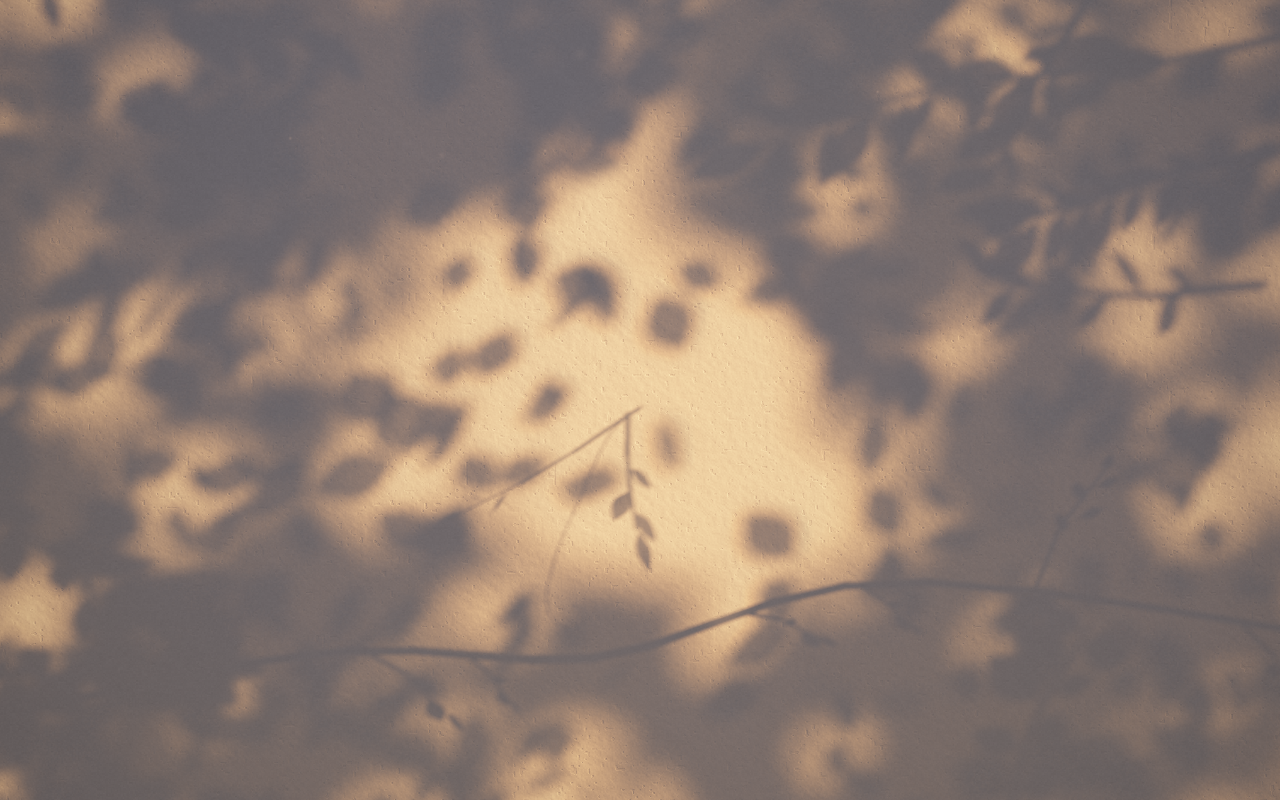
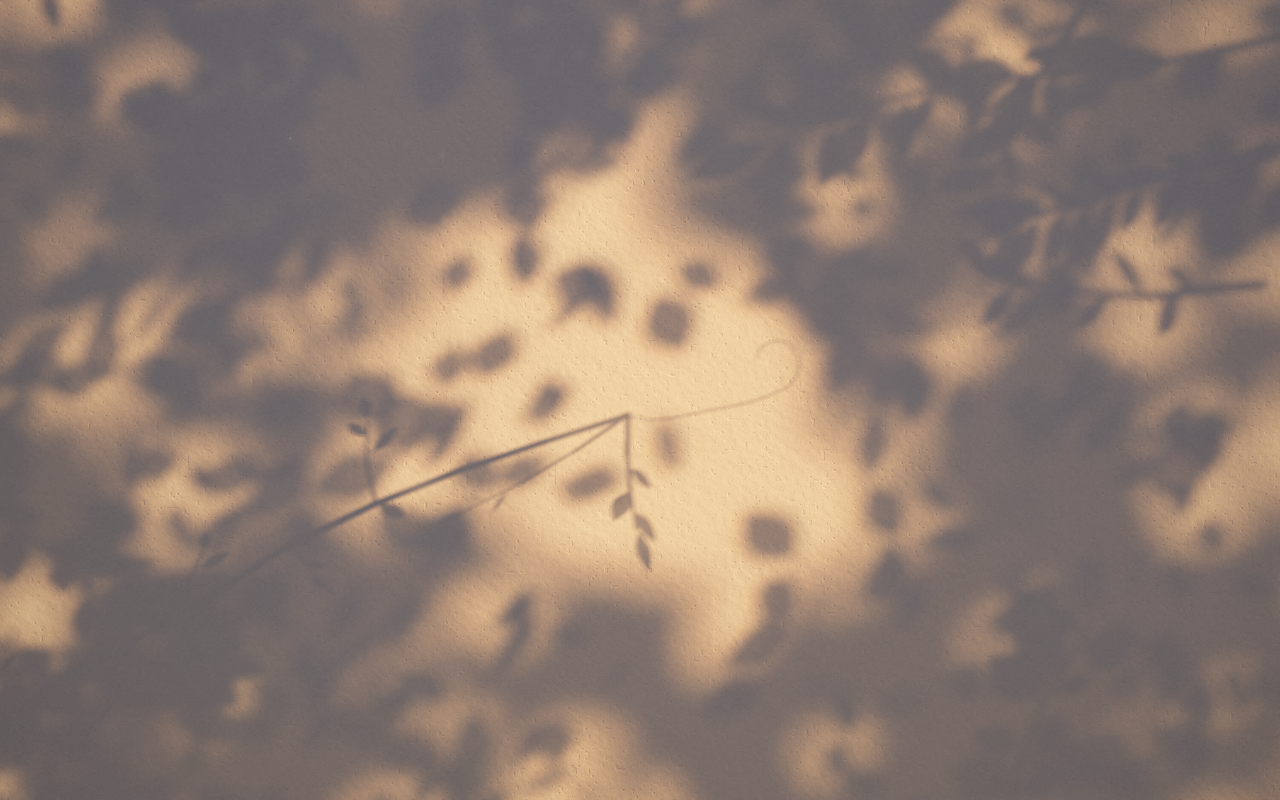
Komorebi Clock: the clock grows at the tip of a thin branch; debug sequence bar
- Replace the vine with a thin, slightly crooked branch reaching in from the
  lower left close to the wall; the hour, minute and seconds shoots sprout
  at its tip. Its side twigs (smaller leaves, leaning back near the tip)
  keep the hands camouflaged. No floating sprig, no wall stem.
- Debug sequence bar (#debug or Shift+D): scrub the day over a strip of the
  day's light, play at x1 to x3600, send the minute's cloud now, back to
  real time. Minute clouds are skipped while scrubbing or above x10.

diff --git a/komorebi/extension/newtab.js b/komorebi/extension/newtab.js
@@ -7,13 +7,17 @@ const canvas = document.getElementById('c');
 const rootStyle = document.documentElement.style;
 
 /* ------------------------------------------------------------------ */
-/*  Time source (with #t=HH:MM debug hook)                            */
+/*  Time source (with #t=HH:MM and #debug hooks)                      */
 /* ------------------------------------------------------------------ */
 
+/* dbg.minutes, when set by the debug sequence bar, replaces the clock: minutes since midnight, fractional */
+const dbg = { on: false, minutes: null, playing: false, speed: 60 };
 let debugMin = null;
 function readHash() {
-  const m = /^#t=(\d{1,2}):(\d{2})$/.exec(location.hash || '');
+  const h = location.hash || '';
+  const m = /t=(\d{1,2}):(\d{2})/.exec(h);
   debugMin = m ? (clampI(+m[1], 0, 23) * 60 + clampI(+m[2], 0, 59)) : null;
+  if (/debug/.test(h)) dbg.on = true;
 }
 function clampI(v, a, b) { return Math.min(b, Math.max(a, v | 0)); }
 readHash();
@@ -24,7 +28,10 @@ const DAYS = ['SUN', 'MON', 'TUE', 'WED', 'THU', 'FRI', 'SAT'];
 function nowInfo() {
   const d = new Date();
   let hh, mm, hour;
-  if (debugMin !== null) {
+  if (dbg.minutes !== null) {
+    const M = ((dbg.minutes % 1440) + 1440) % 1440;
+    hh = Math.floor(M / 60); mm = Math.floor(M % 60); hour = M / 60;
+  } else if (debugMin !== null) {
     hh = Math.floor(debugMin / 60); mm = debugMin % 60; hour = hh + mm / 60;
   } else {
     hh = d.getHours(); mm = d.getMinutes(); hour = hh + mm / 60 + d.getSeconds() / 3600;
@@ -550,7 +557,7 @@ function resize() {
 
   makeLightTarget();
   layoutBranches();
-  buildVine();
+  buildBearer();
   buildMoreBranches();
   buildCanopy();
 
@@ -984,69 +991,63 @@ function emitLeaf3D(base, ang, tz, ll, wf, twist, opacity, shape) {
   emitLeaf(base, Ld.map(x => x * ll * 1.1), Wd.map(x => x * hw), opacity, shape);
 }
 
-/* A vine climbs across the wall a few centimetres out from it. The clock's
-   sprig grows from one of its nodes; its other side twigs look much the same,
-   so the time hides among them.                                              */
-function catmull(P, u) {
-  const n = P.length - 1, f = Math.min(n - 1e-6, Math.max(0, u) * n), i = Math.floor(f), t = f - i;
-  const p0 = P[Math.max(0, i - 1)], p1 = P[i], p2 = P[i + 1], p3 = P[Math.min(n, i + 2)];
-  const t2 = t * t, t3 = t2 * t;
-  return [0, 1].map(j => 0.5 * (2 * p1[j] + (-p0[j] + p2[j]) * t + (2 * p0[j] - 5 * p1[j] + 4 * p2[j] - p3[j]) * t2 + (-p0[j] + 3 * p1[j] - 3 * p2[j] + p3[j]) * t3));
-}
-let VINE = null;
-function buildVine() {
+/* The clock grows at the tip of a thin branch that reaches in from the lower
+   left, close to the wall. The branch's side twigs look much like the hands,
+   so the time hides among them; only the three shoots at the tip keep time. */
+let BEARER = null;
+function buildBearer() {
   const r = mulberry(909);
-  /* the vine passes well below the clock, beyond the reach of the hour hand */
-  const pts = [[-halfW - 0.08, -0.40], [-halfW * 0.5, -0.31], [PIVOT.x - 0.04, PIVOT.y - 0.30], [halfW * 0.42, -0.21], [halfW + 0.08, -0.29]];
-  let uk = 0.5, best = 1e9;
-  for (let i = 0; i <= 400; i++) {
-    const q = catmull(pts, i / 400), d = Math.hypot(q[0] - PIVOT.x + 0.02, q[1] - PIVOT.y);
-    if (d < best) { best = d; uk = i / 400; }
-  }
-  const twigs = [0.07, 0.17, 0.29, 0.38, 0.64, 0.73, 0.83, 0.93].map(u => ({
-    u, ang: (r() < 0.5 ? -1 : 1) * (0.5 + 1.1 * r()), len: 0.07 + 0.12 * r(), nl: 3 + Math.floor(r() * 3),
-    side: r() < 0.5 ? -1 : 1, ph: r() * 50, big: r() < 0.35 }));
-  /* side twigs close to the clock stay small and plain, so the hands can be traced back to their knot */
   const Rh = Math.min(0.31, halfW * 0.78) * 0.7;
-  for (const tw of twigs) {
-    const b = catmull(pts, tw.u), d = Math.hypot(b[0] - PIVOT.x, b[1] - PIVOT.y);
-    if (d < Rh * 1.9) { tw.len *= 0.6; tw.nl = Math.min(tw.nl, 3); tw.big = false; }
-    if (d < Rh * 2.4) tw.ang = Math.sign(tw.ang || 1) * Math.min(Math.abs(tw.ang), 0.55);   /* lie along the vine: never hang like a hand */
+  const S = [-halfW - 0.06, -0.46], K = [PIVOT.x, PIVOT.y];
+  const C = [S[0] * 0.45 + K[0] * 0.55 - 0.02, S[1] * 0.3 + K[1] * 0.7 + 0.03];      /* a gentle arch */
+  const N = 8, nodes = [];
+  for (let i = 0; i <= N; i++) {
+    const u = i / N, v = 1 - u;
+    let x = v * v * S[0] + 2 * v * u * C[0] + u * u * K[0];
+    let y = v * v * S[1] + 2 * v * u * C[1] + u * u * K[1];
+    if (i > 0 && i < N) { const j = (r() - 0.5) * 0.018; x += j * 0.6; y += j; }  /* a little crooked at each node */
+    nodes.push([x, y, Z0 + 0.05 * (1 - u) * (1 - u)]);   /* near the wall at the tip, a little farther out at the edge */
   }
-  /* twigs near the clock grow to the side away from it */
-  for (const tw of twigs) {
-    const b = catmull(pts, tw.u), b2 = catmull(pts, Math.min(1, tw.u + 0.01));
-    if (Math.hypot(b[0] - PIVOT.x, b[1] - PIVOT.y) > 0.42) continue;
-    const va = Math.atan2(b2[1] - b[1], b2[0] - b[0]);
-    const end = a => Math.hypot(b[0] + Math.cos(a) * tw.len - PIVOT.x, b[1] + Math.sin(a) * tw.len - PIVOT.y);
-    if (end(va - tw.ang) > end(va + tw.ang)) tw.ang = -tw.ang;
+  const twigs = [];
+  for (let i = 1; i < N - 1; i++) {
+    const b = nodes[i], d = Math.hypot(b[0] - K[0], b[1] - K[1]);
+    if (d < Rh * 1.35) continue;                        /* the tip belongs to the hands */
+    const dir = Math.atan2(nodes[i + 1][1] - b[1], nodes[i + 1][0] - b[0]);
+    const side = i % 2 ? 1 : -1;
+    const off = d < Rh * 2.4 ? 0.95 + 0.5 * r() : 0.5 + 0.6 * r();   /* near the tip they lean back, away from the clock */
+    twigs.push({ i, ang: dir + side * off, len: (0.05 + 0.07 * r()) * (Rh / 0.217), nl: 2 + Math.floor(r() * 3), side, ph: r() * 50 });
   }
-  VINE = { pts, twigs, uk };
+  BEARER = { nodes, twigs, Rh };
 }
-function emitVine(t) {
-  const V = VINE, N = 18;
-  const zAt = u => Z0 + 0.006 + 0.010 * Math.sin((u - 0.5) * 9);
-  const pt = u => { const q = catmull(V.pts, u); return [q[0], q[1], zAt(u)]; };
-  /* the vine: a mature stem, thicker than any of the clock's twigs */
-  let prev = pt(0);
-  for (let i = 1; i <= N; i++) { const p = pt(i / N); emitSeg(prev, p, 0.0060 - 0.0018 * Math.abs(i / N - 0.5) * 2, 1); prev = p; }
-  const fl = flutterAt(0);
-  for (const tw of V.twigs) {
-    const b = pt(tw.u), b2 = pt(Math.min(1, tw.u + 0.01));
-    const a = Math.atan2(b2[1] - b[1], b2[0] - b[0]) + tw.ang + fl * 0.04 * sn1(t * 0.5 + tw.ph);
-    const e = [b[0] + Math.cos(a) * tw.len, b[1] + Math.sin(a) * tw.len, b[2] + 0.012];
-    const m = [(b[0] + e[0]) / 2 - Math.sin(a) * tw.len * 0.07, (b[1] + e[1]) / 2 + Math.cos(a) * tw.len * 0.07, b[2] + 0.006];
+function emitBearer(t) {
+  const B = BEARER, n = B.nodes.length - 1;
+  /* the branch: thicker than any of the clock's shoots, thinning toward the tip */
+  for (let i = 0; i < n; i++) emitSeg(B.nodes[i], B.nodes[i + 1], 0.0060 - 0.0020 * i / (n - 1), 1);
+  const fl = flutterAt(-0.3);
+  for (const tw of B.twigs) {
+    const b = B.nodes[tw.i];
+    const a = tw.ang + fl * 0.04 * sn1(t * 0.5 + tw.ph);
+    const e = [b[0] + Math.cos(a) * tw.len, b[1] + Math.sin(a) * tw.len, b[2] + 0.01];
+    const m = [(b[0] + e[0]) / 2 - Math.sin(a) * tw.len * 0.06, (b[1] + e[1]) / 2 + Math.cos(a) * tw.len * 0.06, b[2] + 0.005];
     emitSeg(b, m, 0.0028, 1); emitSeg(m, e, 0.0020, 1);
     for (let k = 0; k < tw.nl; k++) {
-      const s = 0.35 + 0.65 * (k + 1) / tw.nl;
-      const p = [b[0] + (e[0] - b[0]) * s, b[1] + (e[1] - b[1]) * s, b[2] + 0.012 * s];
+      const s = 0.4 + 0.6 * (k + 1) / tw.nl;
+      const p = [b[0] + (e[0] - b[0]) * s, b[1] + (e[1] - b[1]) * s, b[2] + 0.01 * s];
       const side = k === tw.nl - 1 ? 0 : (k % 2 ? 1 : -1) * tw.side;
-      const ll = (tw.big ? 0.036 : 0.028) * (0.85 + 0.3 * ((k * 0.37 + tw.ph) % 1));   /* smaller than the hour hand's leaves */
-      emitLeaf3D(p, a + side * 0.72 + fl * 0.12 * sn1(t * 1.25 + tw.ph + k), 0.25 * (side || 0.6), ll, tw.big ? 1.1 : 0.85,
-                 0.3 * (side || 1) + fl * 0.55 * sn1(t * (0.55 + 0.08 * k) + tw.ph * 1.7), 0.96, tw.ph * 0.173 + k * 0.29);
+      const ll = 0.032 * (0.85 + 0.3 * ((k * 0.37 + tw.ph) % 1));     /* smaller than the hour hand's leaves */
+      emitLeaf3D(p, a + side * 0.72 + fl * 0.12 * sn1(t * 1.25 + tw.ph + k), 0.22 * (side || 0.6), ll, 0.8,
+                 0.25 * (side || 1) + fl * 0.5 * sn1(t * (0.55 + 0.08 * k) + tw.ph * 1.7), 0.96, tw.ph * 0.173 + k * 0.29);
     }
   }
+  /* a few leaves straight off the branch */
+  for (let i = 1; i < n - 1; i += 2) {
+    const b = B.nodes[i];
+    if (Math.hypot(b[0] - PIVOT.x, b[1] - PIVOT.y) < B.Rh * 1.3) continue;
+    const dir = Math.atan2(B.nodes[i + 1][1] - b[1], B.nodes[i + 1][0] - b[0]), side = i % 4 === 1 ? -1 : 1;
+    emitLeaf3D(b, dir + side * 1.0, 0.2 * side, 0.034, 0.85, 0.3 * side + fl * 0.5 * sn1(t * 0.7 + i), 0.95, 0.4 + i * 0.13);
+  }
 }
+
 /* the second hand: a tendril, the thinnest thing on the wall, curling at its tip */
 function emitTendril(frac, len, t, px) {
   const th = frac * Math.PI * 2 + 0.01 * sn1(t * 0.6 + 4.2);
@@ -1159,12 +1160,17 @@ function emitBranch(B, leafArr, wArr, jArr, zBase, zTip, aK, th0, th1) {
    from its knot a short twig with broad leaves points at the hour and a long
    slender one at the minute. No numerals, no dial.                           */
 const PIVOT = { x: 0, y: -0.01 };
-const Z0 = 0.014;                            /* the knot, about 2 cm out from the wall on a short stem */
+const Z0 = 0.014;                            /* the knot at the branch tip, about 2 cm out from the wall */
 /* leaves along a twig: s along the stem (0..1), side, angle off the stem, length, width */
 const HOUR_LEAVES = [[0.45, 1, 0.85, 0.060, 0.90], [0.65, -1, 0.75, 0.068, 0.95], [0.84, 1, 0.60, 0.072, 0.92], [1.0, 0, 0.0, 0.080, 0.95]];
 const MIN_LEAVES = [[0.58, -1, 0.65, 0.036, 0.50], [0.74, 1, 0.58, 0.040, 0.55], [0.88, -1, 0.50, 0.042, 0.55], [1.0, 0, 0.0, 0.048, 0.60]];
 function handFracs() {
   const d = new Date();
+  if (dbg.minutes !== null) {
+    const M = ((dbg.minutes % 1440) + 1440) % 1440;
+    const sec = dbg.playing ? (M * 60) % 60 : d.getSeconds() + d.getMilliseconds() / 1000;
+    return { h: ((M / 60) % 12) / 12, m: (M % 60) / 60, s: sec / 60 };
+  }
   let hh, mm, ss;
   if (debugMin !== null) { hh = Math.floor(debugMin / 60); mm = debugMin % 60; ss = 0; }
   else { hh = d.getHours(); mm = d.getMinutes(); ss = d.getSeconds() + d.getMilliseconds() / 1000; }
@@ -1267,7 +1273,7 @@ function frame(now) {
   requestAnimationFrame(frame);
   if (lost) return;
   /* ~30 fps when nothing is happening; full rate while arriving, changing or being touched */
-  const idle = clock > 2.5 && !trans.active && (clock - pointer.last) > 2.5;
+  const idle = clock > 2.5 && !trans.active && (clock - pointer.last) > 2.5 && !dbg.playing;
   const since = now - lastDraw;
   if (idle && since < 1000 / 30 - 4) return;
   const raw = since / 1000;
@@ -1276,8 +1282,14 @@ function frame(now) {
   clock += dt;
   const t = clock;
 
-  if (now - lastInfoAt > 250) { lastInfoAt = now; refreshInfo(); }
-  if (!trans.active && info.key !== shownKey && !needsResize) startTransition(info.key);
+  if (dbg.playing && dbg.minutes !== null) dbg.minutes = (dbg.minutes + dt * dbg.speed / 60) % 1440;
+  if (now - lastInfoAt > 250 || dbg.minutes !== null) { lastInfoAt = now; refreshInfo(); }
+  if (!trans.active && info.key !== shownKey && !needsResize) {
+    /* scrubbing or fast playback crosses minutes too quickly for a cloud each time */
+    if (dbg.minutes !== null && (!dbg.playing || dbg.speed > 10)) shownKey = info.key;
+    else startTransition(info.key);
+  }
+  if (dbgBar && dbg.on) updateDebugBar();
 
   let perturbed = false;
   if (needsResize) { resize(); perturbed = true; }
@@ -1321,9 +1333,8 @@ function frame(now) {
   const sw = wind.mid.x * 1.1 + 0.6 * wind.far.x;
   emitHand(fr.h, Rh * 0.62, 0.05, 0.010, 0.0040, 0.0026, HOUR_LEAVES, wt, sw * 0.8, 3.1, Rh / 0.31, true);
   emitHand(fr.m, Rh, -0.035, 0.016, 0.0026, 0.0012, MIN_LEAVES, wt, sw, 11.7, Rh / 0.31);
-  emitSeg([PIVOT.x, PIVOT.y, 0], [PIVOT.x, PIVOT.y, Z0], 0.0025, 1);    /* the short stem: its shadow is only a small knot */
   emitTendril(fr.s, Rh * 1.12, wt, (0.5 - yBot) / H);
-  emitVine(wt);
+  emitBearer(wt);
   const handQ = nearQ;
   poseBranch(branchA, wt, 0, 0, leafA, leafWA, jointA);
   poseBranch(branchB, wt, 0, 0, leafB, leafWB, jointB);
@@ -1458,6 +1469,82 @@ function frame(now) {
   gl.drawArrays(gl.POINTS, 0, MOTES);
   gl.disable(gl.BLEND);
 }
+
+/* ------------------------------------------------------------------ */
+/*  Debug: a sequence bar to scrub through the day and watch the clouds  */
+/* ------------------------------------------------------------------ */
+/* Shown with #debug in the URL or Shift+D. Not part of the normal page.  */
+let dbgBar = null, dbgEls = null, dbgDrag = false, dbgLastUi = 0;
+function litColor(L) {
+  return ALB.map((a, j) => Math.pow(1 - Math.exp(-a * (L.amb[j] + L.sun[j] * L.si * 1.8 * 0.6) * 1.12), 1 / 2.2));
+}
+function setupDebugBar() {
+  if (dbgBar) { dbgBar.style.display = dbg.on ? 'flex' : 'none'; return; }
+  if (!dbg.on) return;
+  const st = document.createElement('style');
+  st.textContent = `
+#kc-dbg{position:fixed;left:16px;right:16px;bottom:16px;display:flex;align-items:center;gap:10px;padding:10px 12px;
+  background:rgba(20,22,26,.72);color:#eee;font:12px/1 -apple-system,BlinkMacSystemFont,"Helvetica Neue",sans-serif;
+  border-radius:10px;backdrop-filter:blur(6px);-webkit-backdrop-filter:blur(6px);z-index:10;user-select:none}
+#kc-dbg button,#kc-dbg select{background:rgba(255,255,255,.12);color:#eee;border:1px solid rgba(255,255,255,.2);border-radius:6px;
+  font:inherit;padding:5px 9px;cursor:pointer}
+#kc-dbg button:hover,#kc-dbg select:hover{background:rgba(255,255,255,.22)}
+#kc-dbg button:focus-visible,#kc-dbg select:focus-visible,#kc-dbg input:focus-visible{outline:2px solid #fff;outline-offset:1px}
+#kc-dbg .lbl{font-variant-numeric:tabular-nums;min-width:40px;text-align:right;font-size:13px}
+#kc-dbg .trk{position:relative;flex:1;height:26px;min-width:120px}
+#kc-dbg .trk canvas{position:absolute;left:0;right:0;top:12px;width:100%;height:10px;border-radius:5px}
+#kc-dbg .ticks{position:absolute;left:0;right:0;top:0;display:flex;justify-content:space-between;font-size:9px;opacity:.65;pointer-events:none}
+#kc-dbg input[type=range]{position:absolute;left:0;right:0;top:8px;width:100%;height:18px;margin:0;background:transparent;-webkit-appearance:none;appearance:none}
+#kc-dbg input[type=range]::-webkit-slider-runnable-track{height:18px;background:transparent}
+#kc-dbg input[type=range]::-webkit-slider-thumb{-webkit-appearance:none;width:4px;height:18px;background:#fff;border-radius:2px;box-shadow:0 0 0 1px rgba(0,0,0,.45)}`;
+  document.head.appendChild(st);
+  const bar = document.createElement('div');
+  bar.id = 'kc-dbg';
+  bar.innerHTML = '<button data-k="play" title="play / pause">▶</button>' +
+    '<select data-k="speed" title="speed"><option value="1">×1</option><option value="10">×10</option><option value="60" selected>×60</option><option value="600">×600</option><option value="3600">×3600</option></select>' +
+    '<div class="trk"><div class="ticks"><span>0</span><span>3</span><span>6</span><span>9</span><span>12</span><span>15</span><span>18</span><span>21</span><span>24</span></div>' +
+    '<canvas width="576" height="10"></canvas><input data-k="time" type="range" min="0" max="1439" step="1" aria-label="time of day"></div>' +
+    '<span class="lbl" data-k="label">--:--</span>' +
+    '<button data-k="cloud" title="send a cloud across now">cloud</button>' +
+    '<button data-k="now" title="back to the real time">now</button>';
+  document.body.appendChild(bar);
+  const q = k => bar.querySelector(`[data-k="${k}"]`);
+  dbgEls = { play: q('play'), speed: q('speed'), time: q('time'), label: q('label') };
+  /* the track shows the day's light: sun-lit wall colour hour by hour */
+  const cv = bar.querySelector('canvas'), c2 = cv.getContext('2d');
+  for (let x = 0; x < cv.width; x++) {
+    const c = litColor(lightAt(x / cv.width * 24));
+    c2.fillStyle = css(c); c2.fillRect(x, 0, 1, cv.height);
+  }
+  dbgEls.speed.value = String(dbg.speed);
+  const realMinutes = () => { const d = new Date(); return d.getHours() * 60 + d.getMinutes() + d.getSeconds() / 60; };
+  dbgEls.play.addEventListener('click', () => {
+    if (dbg.minutes === null) dbg.minutes = realMinutes();
+    dbg.playing = !dbg.playing;
+  });
+  dbgEls.speed.addEventListener('change', () => { dbg.speed = +dbgEls.speed.value; });
+  dbgEls.time.addEventListener('input', () => { dbg.minutes = +dbgEls.time.value; dbgDrag = true; });
+  dbgEls.time.addEventListener('change', () => { dbgDrag = false; });
+  q('cloud').addEventListener('click', () => { trans.active = true; trans.t0 = clock; trans.to = info.key; });
+  q('now').addEventListener('click', () => { dbg.minutes = null; dbg.playing = false; });
+  bar.addEventListener('pointerdown', e => e.stopPropagation());
+  dbgBar = bar;
+}
+function updateDebugBar() {
+  const t = performance.now();
+  if (t - dbgLastUi < 80) return;
+  dbgLastUi = t;
+  const d = new Date();
+  const M = dbg.minutes !== null ? ((dbg.minutes % 1440) + 1440) % 1440 : d.getHours() * 60 + d.getMinutes();
+  if (!dbgDrag) dbgEls.time.value = String(Math.floor(M));
+  dbgEls.label.textContent = pad(Math.floor(M / 60)) + ':' + pad(Math.floor(M % 60)) + (dbg.minutes === null ? '' : '*');
+  dbgEls.play.textContent = dbg.playing ? '❚❚' : '▶';
+}
+window.addEventListener('keydown', e => {
+  if (e.shiftKey && (e.key === 'D' || e.key === 'd')) { dbg.on = !dbg.on; setupDebugBar(); }
+});
+window.addEventListener('hashchange', () => { if (dbg.on) setupDebugBar(); });
+setupDebugBar();
 
 try { initGL(); } catch (err) {
   console.warn(err);

diff --git a/komorebi/README.md b/komorebi/README.md
@@ -2,7 +2,7 @@
 
 A Chrome extension that replaces the new tab page with sunlight falling through leaves onto a plaster wall. It is a clock without numerals: the time is told by the shadow of a sprig.
 
-Everything on the wall is a shadow of something in front of it, cast by a sun that moves with the local hour. A far canopy (5 to 9 m from the wall) is an almost closed roof of leaves; the light through its gaps lands as soft, round pinhole images of the sun. A nearer layer of leaves (1.5 to 3 m) casts blurred leaf shapes, and a dozen branches hang between 0.9 and 3 m from the wall, so their shadows are soft. A vine climbs across the lower part of the wall a few centimetres out. In the clearing above it, a small sprig held to the wall by a short stem tells the time: a short twig with broad, pointed leaves is the hour hand, a long slender one with narrow willow leaves is the minute hand, and the thinnest tendril, curling at its tip, sweeps the seconds. The vine's side twigs look much like them, so the time hides among them until you look for it. The farther something is from the wall, the softer its shadow, because the sun is a disc rather than a point; a slight lens defocus softens everything a little more, and the brightest edges of the dappled light split faintly into colour. Each minute the shadow of a small cloud passes over. The light follows the local hour: pink-orange at dawn, warm white in the morning, bright and neutral at noon, golden with long ellipses in the late afternoon, deep orange at dusk, and cool blue moonlight at night.
+Everything on the wall is a shadow of something in front of it, cast by a sun that moves with the local hour. A far canopy (5 to 9 m from the wall) is an almost closed roof of leaves; the light through its gaps lands as soft, round pinhole images of the sun. A nearer layer of leaves (1.5 to 3 m) casts blurred leaf shapes, and a dozen branches hang between 0.9 and 3 m from the wall, so their shadows are soft. A thin branch reaches in from the lower left, close to the wall, and ends in the clearing. At its tip three shoots tell the time: a short twig with broad, pointed leaves is the hour hand, a long slender one with narrow willow leaves is the minute hand, and the thinnest tendril, curling at its tip, sweeps the seconds. The branch's side twigs look much like them, so the time hides among them until you look for it. The farther something is from the wall, the softer its shadow, because the sun is a disc rather than a point; a slight lens defocus softens everything a little more, and the brightest edges of the dappled light split faintly into colour. Each minute the shadow of a small cloud passes over. The light follows the local hour: pink-orange at dawn, warm white in the morning, bright and neutral at noon, golden with long ellipses in the late afternoon, deep orange at dusk, and cool blue moonlight at night.
 
 ![screenshot](store/screenshot_1280x800_a.png)
 
@@ -12,6 +12,10 @@ Everything on the wall is a shadow of something in front of it, cast by a sun th
 - Moving the pointer nudges the wind and the sun a little; it works without a mouse
 - Respects `prefers-reduced-motion` (slower wind, no gusts, a shorter and fainter cloud)
 - Rendering is capped at about 30 fps when idle, with device pixel ratio capped at 1.5
+
+## Debug
+
+Add `#debug` to the page URL, or press Shift+D on the page, to show a sequence bar: a slider over the day's light (0 to 24 h), play and pause at x1 to x3600, a button that sends the minute's cloud across now, and a button back to the real time. `#t=HH:MM` fixes the time without the bar.
 
 ## Install from source
 
